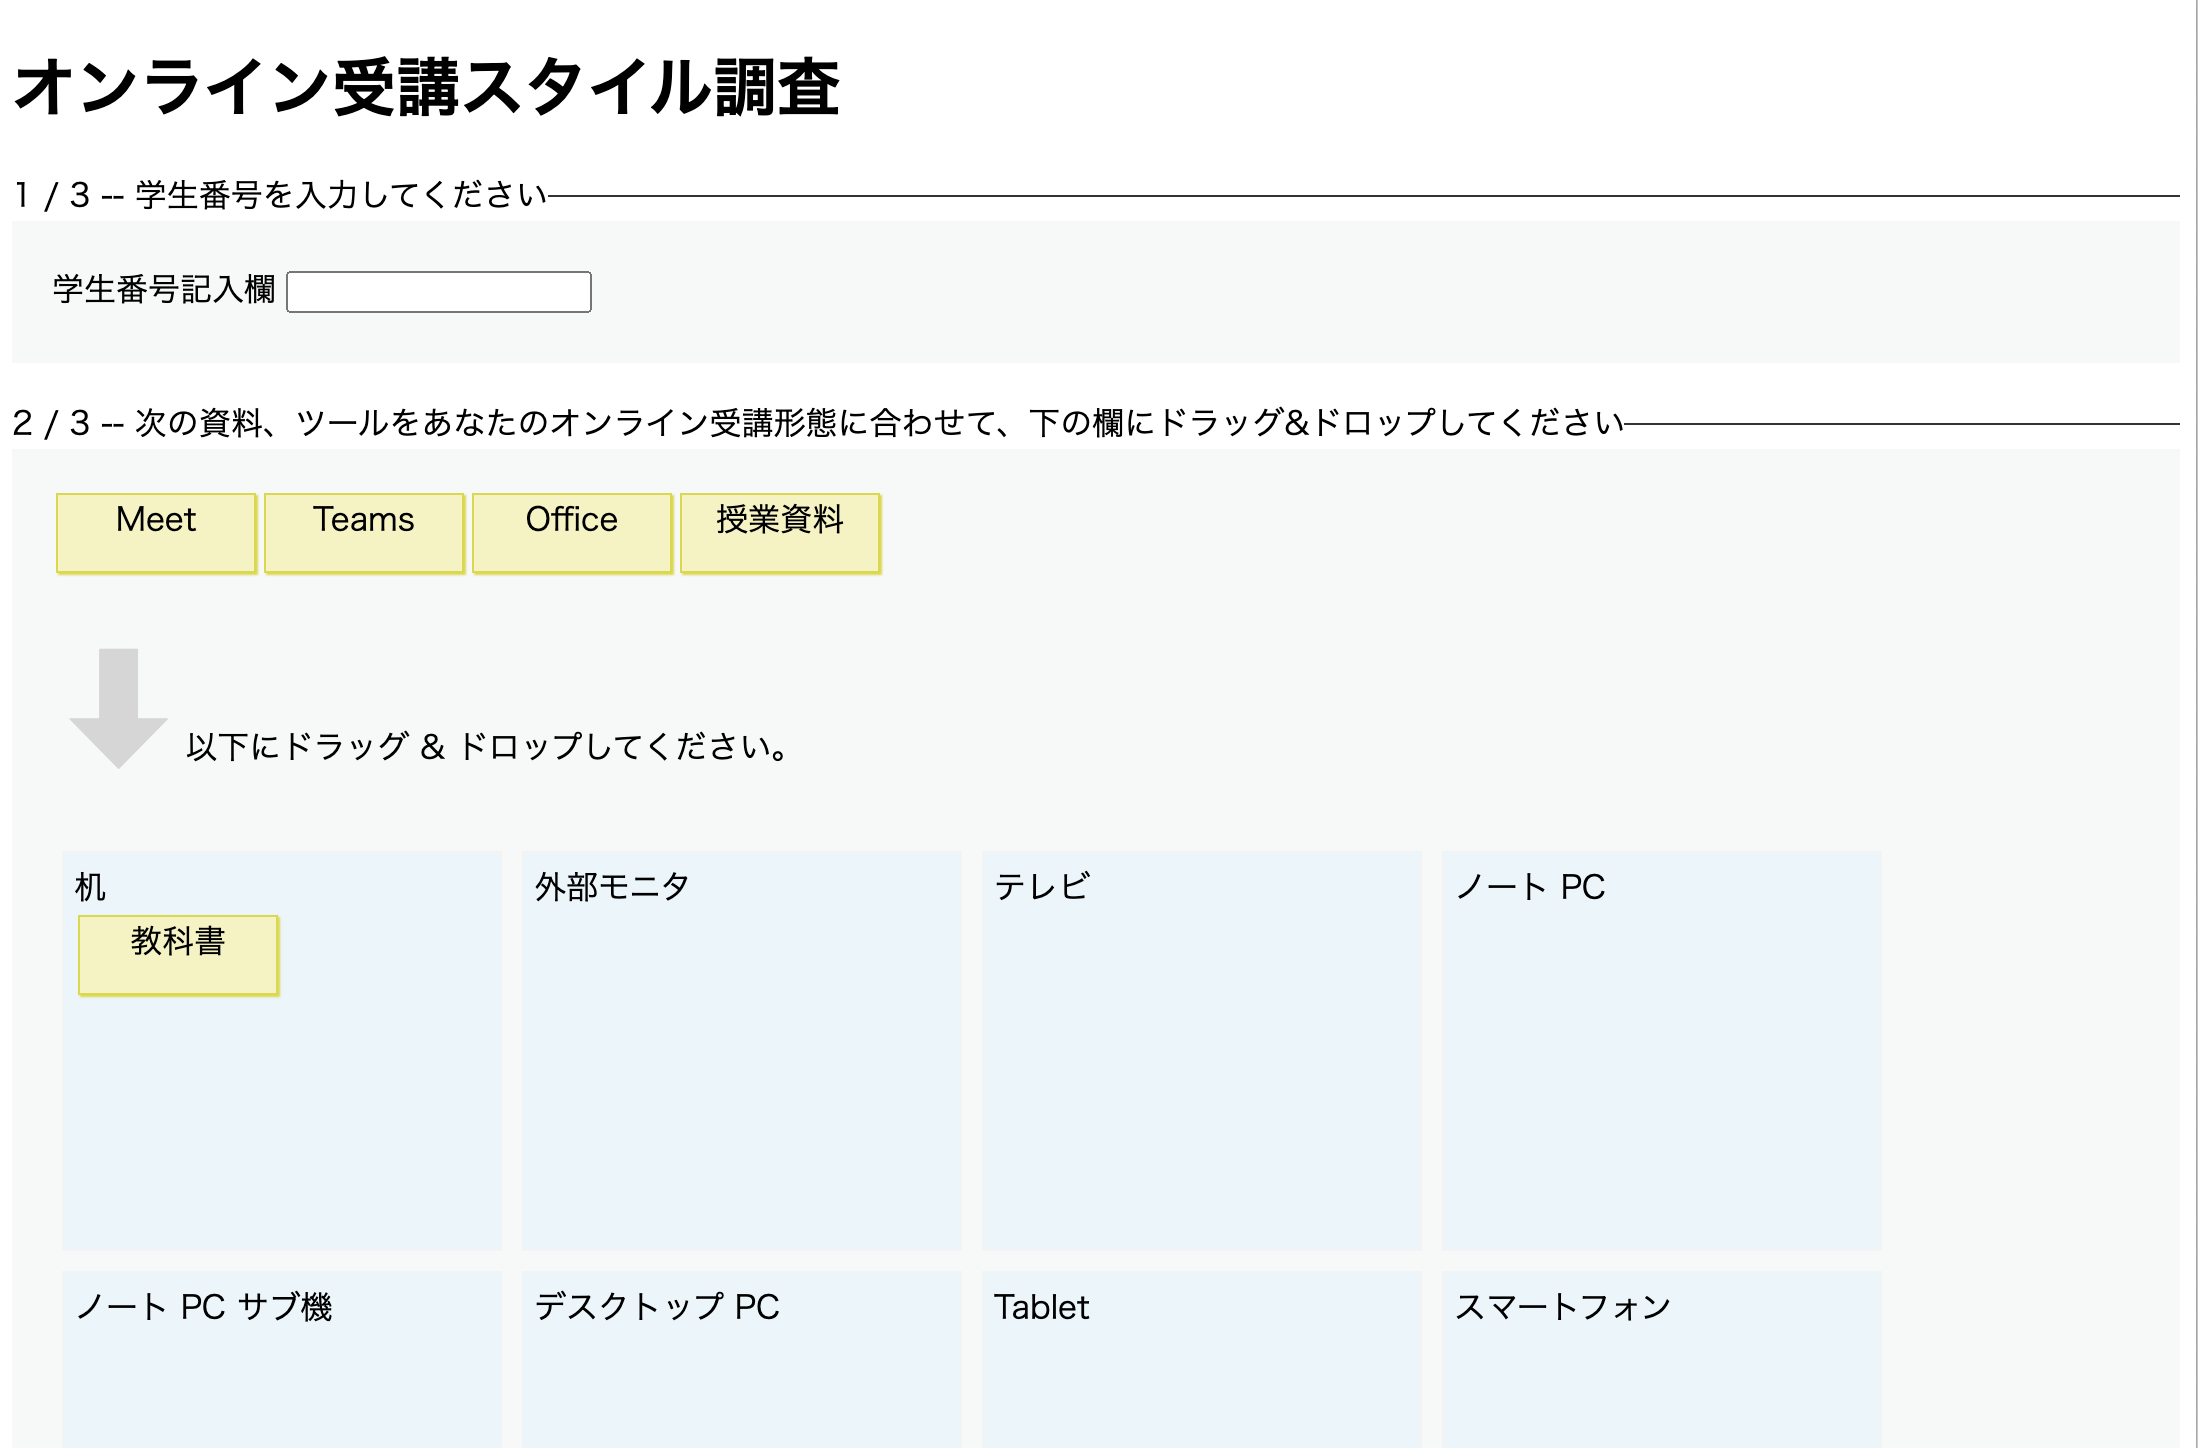
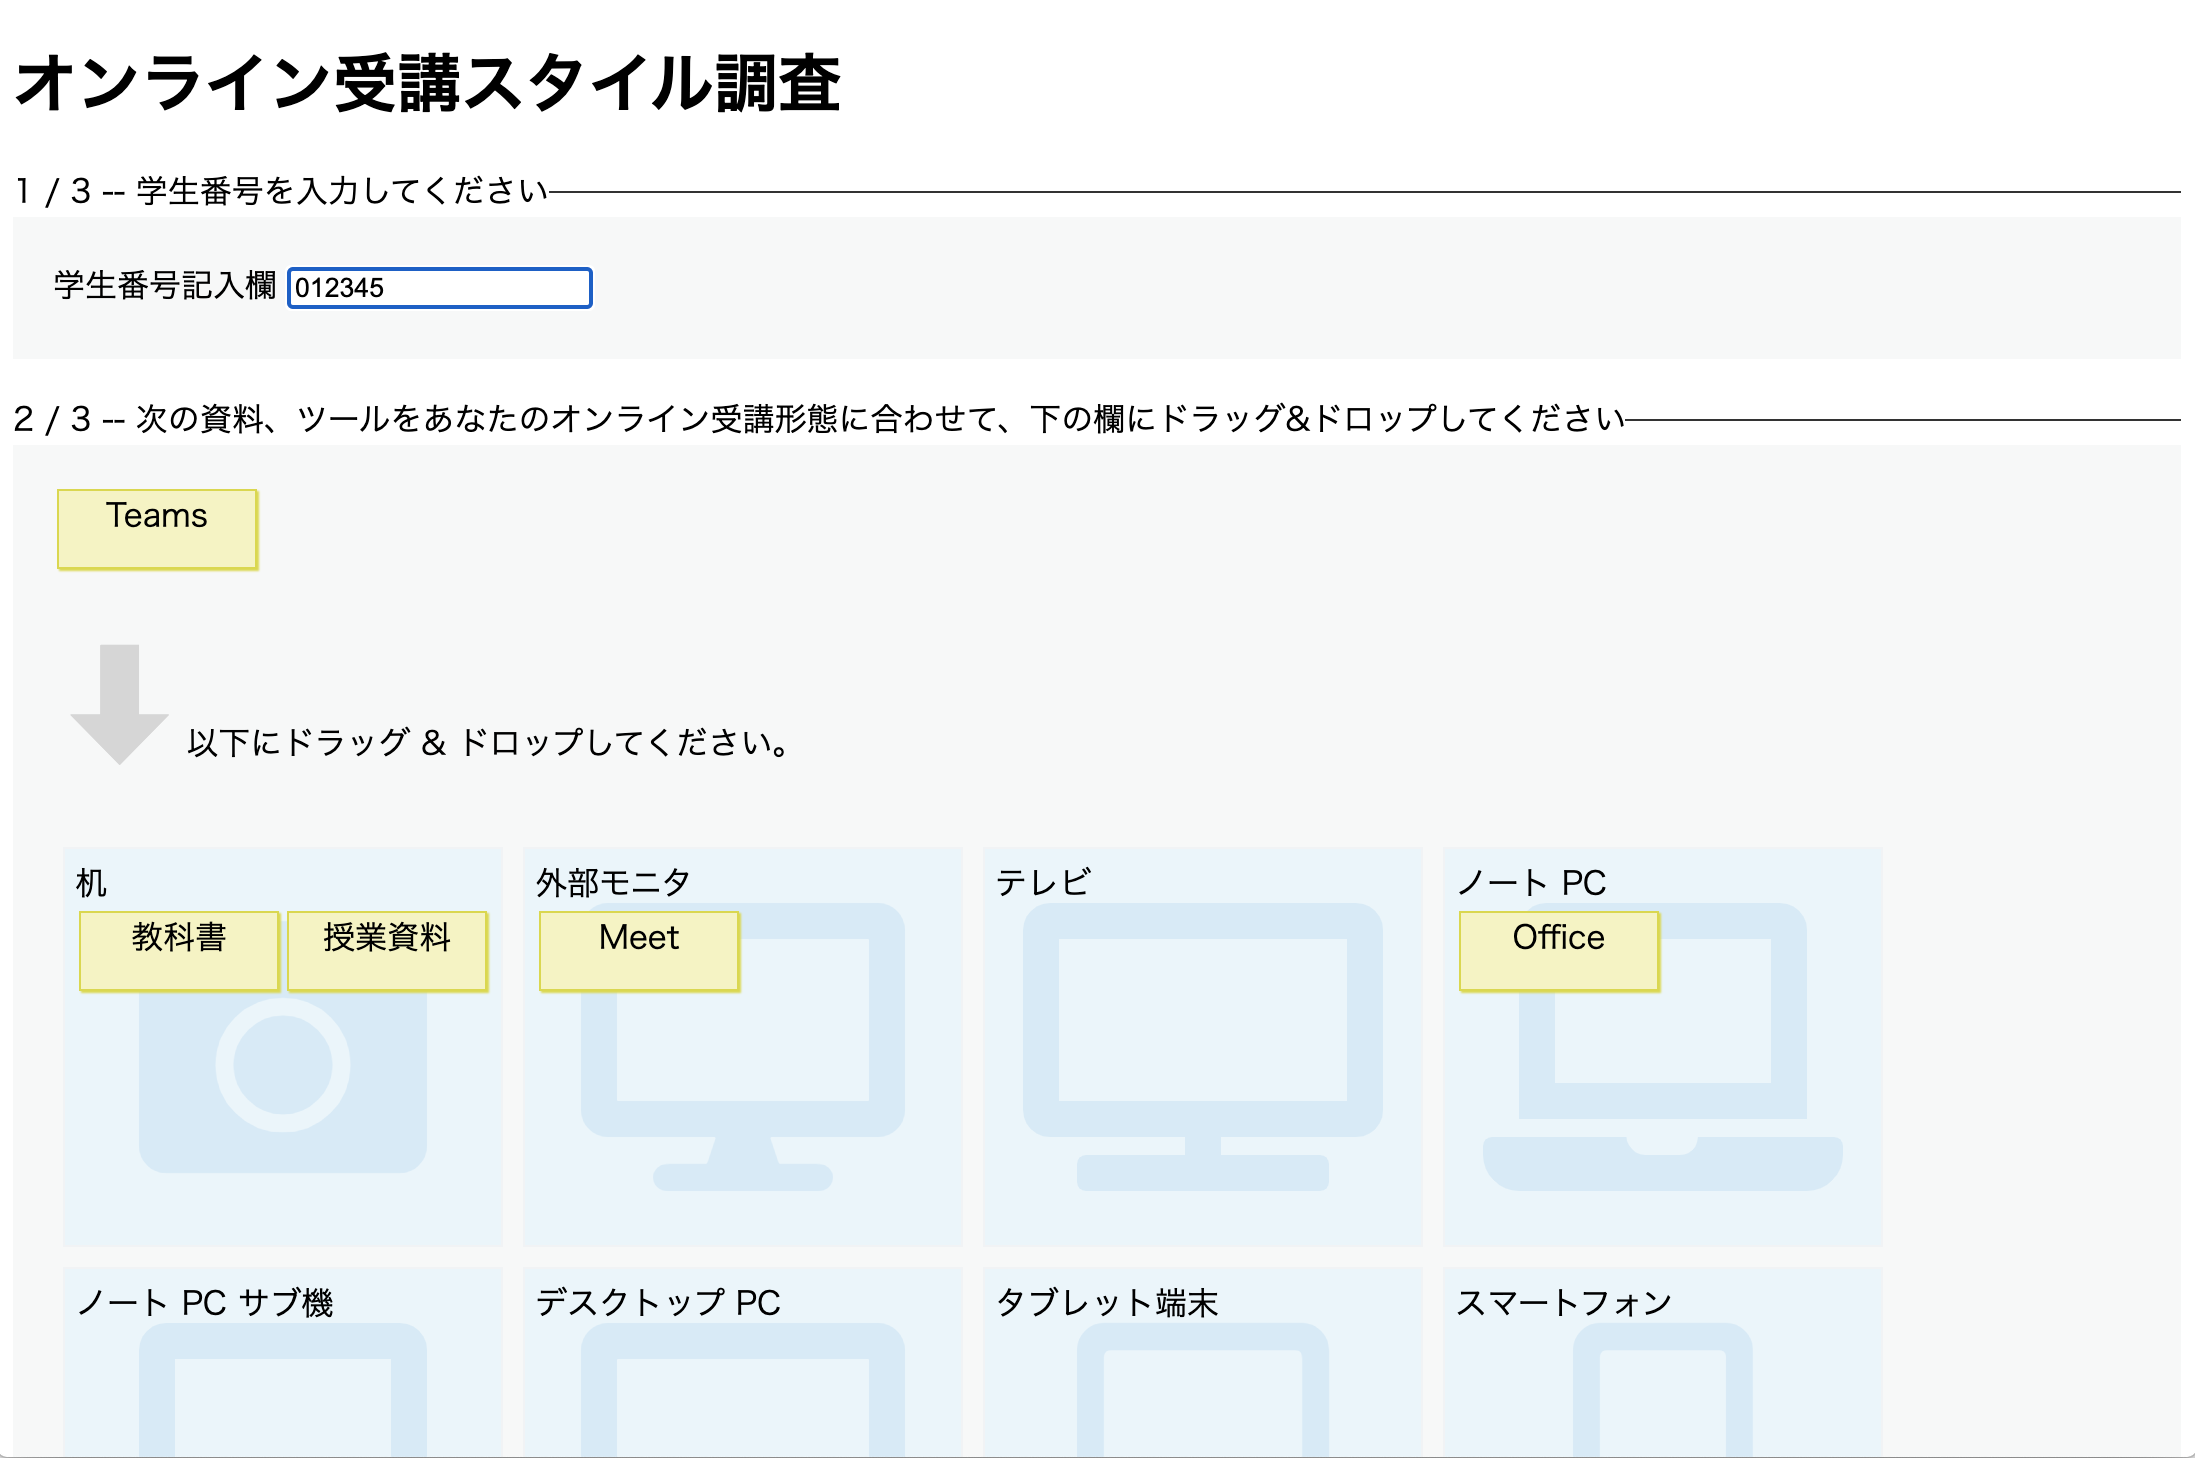
upgrade: 配置場所の背景にアイコンを置いた

diff --git a/オンライン受講スタイル調査.html b/オンライン受講スタイル調査.html
@@ -55,6 +55,7 @@
             box-shadow: 1px 1px 1px hsl(60, 70%, 50%);
         }
         #target > div {
+            position: relative;
             display: flex;
             flex-wrap: wrap;
             align-items: flex-start;
@@ -72,6 +73,25 @@
         #target > div > span {
             width: 100%;
         }
+
+        #target > div > i {
+            position: absolute;
+            top: 50%;
+            left: 50%;
+            transform: translateY(-50%) translateX(-50%);
+            z-index: 0;
+            font-size: 9em;
+            color:hsl(200, 70%, 90%)
+        }
+
+        #target > div.dragover > i {
+            visibility: hidden;
+        }
+
+        #target > div > div {
+            z-index: 10;
+        }
+        
 
         #arrow {
             font-size: 50pt;
@@ -96,7 +116,6 @@
 <body>
     <div id="screen">
         <h1>オンライン受講スタイル調査</h1>
-
         <hr id="sec1">
         <div id="student_id_form">
             <label for="student_id">学生番号記入欄</label><input id="student_id">
@@ -113,16 +132,38 @@
             <p><span id="arrow">⬇</span>以下にドラッグ & ドロップしてください。</p>
             <div id="target">
                 <div id="desk">
+                    <i class="fas fa-camera"></i>
                     <span>机</span>
                     <div id="item_textbook">教科書</div>
                 </div>
-                <div id="sub_monitor"><span>外部モニタ</span></div>
-                <div id="tv"><span>テレビ</span></div>
-                <div id="notepc"><span>ノート PC</span></div>
-                <div id="sub_notepc"><span>ノート PC サブ機</span></div>
-                <div id="desktop_pc"><span>デスクトップ PC</span></div>
-                <div id="tablet"><span>Tablet</span></div>
-                <div id="smartphone"><span>スマートフォン</span></div>
+                <div id="sub_monitor">
+                    <i class="fas fa-desktop"></i>
+                    <span>外部モニタ</span>
+                </div>
+                <div id="tv">
+                    <i class="fas fa-tv"></i>
+                    <span>テレビ</span>
+                </div>
+                <div id="notepc">
+                    <i class="fas fa-laptop"></i>
+                    <span>ノート PC</span>
+                </div>
+                <div id="sub_notepc">
+                    <i class="fas fa-laptop"></i>
+                    <span>ノート PC サブ機</span>
+                </div>
+                <div id="desktop_pc">
+                    <i class="fas fa-desktop"></i>
+                    <span>デスクトップ PC</span>
+                </div>
+                <div id="tablet">
+                    <i class="fas fa-tablet-alt"></i>
+                    <span>タブレット端末</span>
+                </div>
+                <div id="smartphone">
+                    <i class="fas fa-mobile-alt"></i>
+                    <span>スマートフォン</span>
+                </div>
             </div>
         </div>
 
@@ -149,33 +190,36 @@
         // ドロップされる側（配置場所）
         $$('#target > div').forEach(target => {
             target.addEventListener('dragenter', e => {
+                e.preventDefault();
                 console.log('dragenter');
             }, false);
             target.addEventListener('dragover', e => {
-                if (target_ids.includes(e.target.id)) {
-                    e.target.classList.add('dragover');
+                const cur_target = e.currentTarget;
+                if (!cur_target.classList.contains('dragover')) {
+                    e.currentTarget.classList.add('dragover');
                 }
                 e.preventDefault();
                 console.log('dragover');
             }, false);
             target.addEventListener('dragleave', e => {
-                if (target_ids.includes(e.target.id)) {
-                    e.target.classList.remove('dragover');
+                const evt_target = e.target;
+                const cur_target = e.currentTarget;
+                if (evt_target === cur_target) {
+                    e.currentTarget.classList.remove('dragover');
                 }
                 console.log('dragleave');
             }, false);
             target.addEventListener('drop', e => {
-                const target_id = e.target.id;
-                if (target_ids.includes(target_id)) {
-                    e.target.classList.remove('dragover');
-                }
+                const evt_target = e.target;
+                const cur_target = e.currentTarget;
+                cur_target.classList.remove('dragover');
                 console.log('drop');
 
                 let item = e.dataTransfer.getData('text/plain');
-                if (target_id.substr(0, 4) !== 'item') {
-                    e.target.appendChild($('#'+item));
+                if (evt_target === cur_target) {
+                    cur_target.appendChild($('#'+item));
 
-                    result[item] = target_id; 
+                    result[item] = cur_target.id; 
 
                     if (is_completed()) {
                         console.log('completed!')
